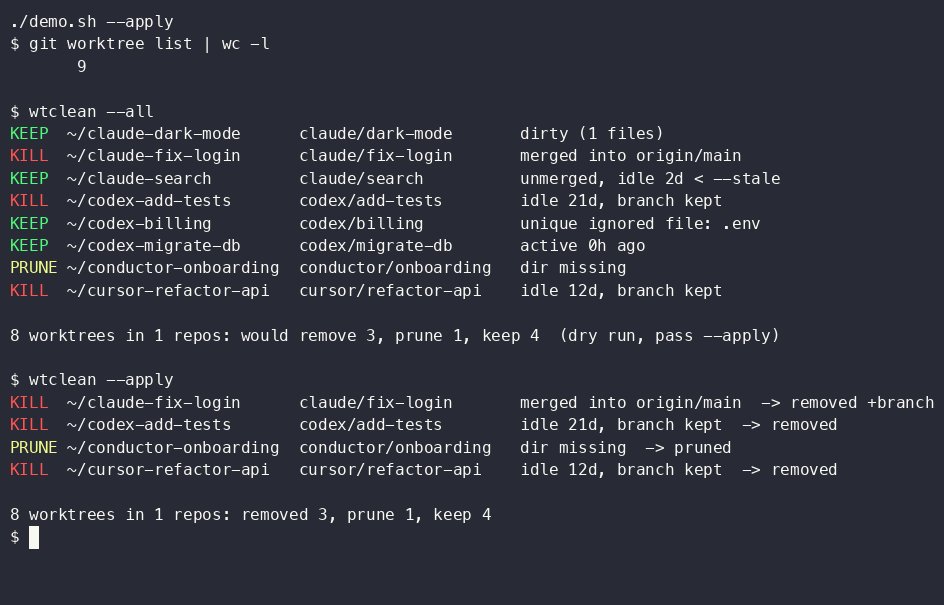
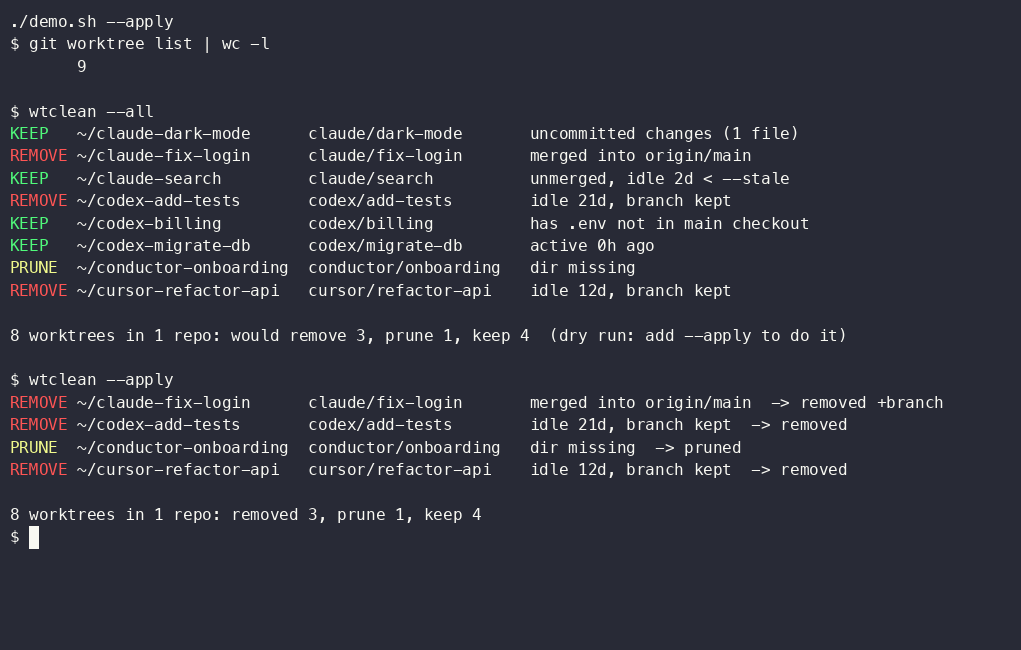
Explain the problem, safer + friendlier CLI, CI
- README leads with why agent worktrees pile up and why prune/rm -rf don't fix it
- REMOVE instead of KILL, plural-aware summary, progress during --apply
- clear error outside a git repo; exit 1 if any removal fails
- Linux fallback when lsof is missing (/proc/*/cwd)
- GIT_OPTIONAL_LOCKS=0 so scanning never resets idle clocks
- CI: test.sh + demo.sh on ubuntu and macos

diff --git a/README.md b/README.md
@@ -1,84 +1,103 @@
 # wtclean
 
-Coding agents (Claude Code, Codex, Cursor, Conductor...) each get their own git worktree. Nobody cleans them up. A few weeks in you have 150 worktrees per repo and gigabytes of stale `node_modules`.
-
-`wtclean` finds the dead ones and removes them without losing work. One Python file, no dependencies.
+Clean up the git worktrees your coding agents leave behind, without losing work.
 
 ![wtclean demo](screenshot.png)
+
+## The problem
+
+Claude Code, Codex, Cursor, Conductor and friends run each task in its own **git worktree**: a second checkout of your repo in another folder, on its own branch. That's what lets five agents work on one repo without stepping on each other.
+
+Nobody deletes them afterwards. The agent finishes, the PR merges, and the folder stays, with its own copy of `node_modules`, build output and `.venv`. On one machine after a few weeks:
+
+- **287 worktrees across 101 repos**, two repos with 140+ each
+- **54 GB** of disk, mostly duplicated dependencies
+- `git worktree list` too long to read, branch pickers full of dead branches
+- no way to tell which ones an agent is still using
+
+The obvious fixes don't work:
+
+| You try | What happens |
+|---|---|
+| `git worktree prune` | Only forgets worktrees whose folder is *already* deleted. Frees nothing. |
+| `rm -rf` the folders | Deletes uncommitted work, and any `.env` you copied in. Git's metadata is left dangling. |
+| `git worktree remove --force` | Same: `--force` is the flag that skips the "you have changes" check. |
+| Ask the agent to clean up | [It happens](https://mergify.com/blog/the-day-my-ai-agent-deleted-29-git-worktrees): an agent removed 29 active worktrees. |
+
+## What wtclean does
+
+It looks at every worktree and sorts it into one of three groups:
+
+- **REMOVE** if it's clean and either
+  - its branch is merged or the remote branch was deleted, and it's been idle for 24 hours, or
+  - it's unmerged and has been idle for 7 days. The folder is removed and the branch is kept.
+- **PRUNE** if the folder is already gone and git still lists it.
+- **KEEP** if it has uncommitted changes, is locked, has a process running inside it, was used recently, holds a `.env` the main checkout doesn't have, or is a detached checkout with unpushed commits.
+
+It's a dry run until you add `--apply`.
+
+### Why nothing gets lost
+
+- Removal uses plain `git worktree remove`. Git itself refuses to delete a worktree with changes.
+- A branch is only deleted with `git branch -d`, which refuses unmerged work. Removing the folder of an unmerged branch keeps every commit, and `git worktree add <path> <branch>` brings it back.
+- What does get deleted is ignored stuff: `node_modules`, build output, caches. That's the disk you get back. Ignored `.env` files are checked first, and a worktree is kept if its `.env` differs from the main checkout's.
 
 ## Install
 
 ```bash
+mkdir -p ~/.local/bin
 curl -fsSL https://raw.githubusercontent.com/Ar9av/wtclean/main/wtclean -o ~/.local/bin/wtclean
 chmod +x ~/.local/bin/wtclean
 ```
 
-Needs Python 3.9+ and git. macOS and Linux.
+Needs git and Python 3.9+, which macOS and most Linux distros already have. If `wtclean` isn't found afterwards, add `export PATH="$HOME/.local/bin:$PATH"` to your `~/.zshrc` or `~/.bashrc`.
 
 ## Use
 
 ```bash
-wtclean                         # dry run for the repo you're in
-wtclean --scan ~/code           # dry run for every repo under ~/code
-wtclean --scan ~/code --apply   # remove the KILL rows
+wtclean                                  # what would go, in the repo you're in
+wtclean --scan ~/code                    # same, for every repo under ~/code
+wtclean --scan ~/code --fetch --apply    # refresh from remotes, then clean up
 ```
 
-Try it on a throwaway repo first: `./demo.sh` builds one full of fake agent worktrees and runs wtclean on it.
+Want to see it before pointing it at real repos? Clone this repo and run `./demo.sh`. It builds a throwaway repo full of fake agent worktrees and runs wtclean on it.
 
-## What gets removed
-
-| Row   | When |
-|-------|------|
-| KILL  | clean, and either merged / remote branch deleted (idle > 24h) or unmerged and idle > 7 days |
-| PRUNE | directory already deleted, git still lists it |
-| KEEP  | anything below |
-
-A worktree is always kept if it:
-
-- has uncommitted or untracked changes
-- is locked (`git worktree lock`)
-- has a process running inside it (dev server, shell, agent)
-- was touched within `--idle` hours, or is unmerged and younger than `--stale` days
-- holds an ignored `.env*` file the main checkout doesn't have
-- is a detached HEAD with commits not on any remote
-
-## Why it's safe
-
-- Dry run unless you pass `--apply`.
-- Removal is `git worktree remove` without `--force`, so git itself refuses dirty trees. Never `rm -rf`.
-- Branches are deleted only with `git branch -d`, which refuses unmerged work. Unmerged branches stay, so removing an idle worktree loses no commits; `git worktree add <path> <branch>` brings it back.
-- Ignored files (`node_modules`, build output) go with the worktree. That's the disk you get back.
+The first `--apply` on a big backlog can take several minutes, mostly deleting `node_modules`. It shows progress as it goes.
 
 ## Options
 
 | Flag | Default | |
 |------|---------|--|
-| `--scan DIR` | | find repos under DIR (depth 3) |
+| `--scan DIR` | | find repos under DIR (3 levels deep) |
 | `--apply` | off | actually remove |
-| `--idle H` | 24 | hours untouched before merged/gone worktrees count as dead |
-| `--stale D` | 7 | days untouched before unmerged worktrees count as dead |
-| `--fetch` | off | `git fetch --prune` first so merged/gone is current |
+| `--fetch` | off | `git fetch --prune` first, so merged / deleted-on-remote is current |
+| `--idle H` | 24 | hours untouched before a merged worktree is removed |
+| `--stale D` | 7 | days untouched before an unmerged worktree is removed |
+| `--all` | off | also list KEEP rows, with the reason |
 | `--json` | off | machine-readable output |
-| `--all` | off | also print KEEP rows |
 
-## Use it from an agent
+## Use it from your agents
 
-Paste into `AGENTS.md` / `CLAUDE.md`:
+Paste this into `AGENTS.md` or `CLAUDE.md`:
 
 ```
-Worktrees: lock the worktree you work in with `git worktree lock --reason "<task>" <path>`
-and unlock it when done. Check for leftovers with `wtclean --json`. Only run
-`wtclean --apply` when the user asks.
+Worktrees: lock the worktree you work in with
+`git worktree lock --reason "<task>" <path>` and unlock it when you finish.
+To check for leftovers, run `wtclean --json`. Only run `wtclean --apply` when the user asks.
 ```
 
-`--json` returns one object per worktree: `path`, `branch`, `action` (`kill` / `prune` / `keep`), `reason`, `idle_h`.
+`--json` returns one object per worktree: `path`, `branch`, `action` (`remove` / `prune` / `keep`), `reason`, `idle_h`.
 
-## Test
+Or run it on a schedule. This crontab line cleans up every Monday at 9am:
+
+```
+0 9 * * 1  ~/.local/bin/wtclean --scan ~/code --fetch --apply >> ~/.wtclean.log 2>&1
+```
+
+## Development
 
 ```bash
-./test.sh
+./test.sh   # builds a scratch repo covering every case and checks each verdict
 ```
 
-## License
-
-MIT
+One file, standard library only. MIT licensed.
